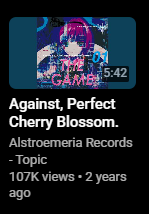
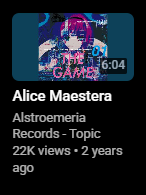
refactor some selectors in content, update demo images

diff --git a/content-texts.js b/content-texts.js
@@ -57,7 +57,9 @@ const textStyleSettings = {
             ${CELLS_VIDEOS_COLLAB} .yt-core-attributed-string__link,
             ${SECTION_OTHERS_VIDEOS} .yt-core-attributed-string__link,
             ${SIDEBAR_VIDEOS} .yt-content-metadata-view-model__metadata-row:nth-of-type(1) .yt-content-metadata-view-model__metadata-text,
-            ${SIDEBAR_PLPANEL_VIDEOS} #byline {
+            ${SIDEBAR_PLPANEL_VIDEOS} #byline,
+            ${PLRCTN_PLAYER_RELATEDVIDEOSCTN_VIDEOS} .ytp-modern-videowall-still-info-author, 
+            ${BIGMODE_PLRCTN_PLAYER_RELATEDVIDEOSCTN_VIDEOS} .ytp-modern-videowall-still-info-author {
                 max-height: unset !important;
                 white-space: normal !important;
                 word-break: break-word !important;
@@ -78,8 +80,6 @@ const textStyleSettings = {
             ${CELLS_VIDEOS_COLLAB} .yt-content-metadata-view-model__metadata-row:nth-of-type(2) .yt-content-metadata-view-model__metadata-text, 
             ${SECTION_OTHERS_VIDEOS} .yt-content-metadata-view-model__metadata-row:nth-of-type(2) .yt-content-metadata-view-model__metadata-text, 
             ${SIDEBAR_VIDEOS} .yt-content-metadata-view-model__metadata-row:nth-of-type(2) .yt-content-metadata-view-model__metadata-text, 
-            ${PLRCTN_PLAYER_RELATEDVIDEOSCTN_VIDEOS} .ytp-modern-videowall-still-info-author, 
-            ${BIGMODE_PLRCTN_PLAYER_RELATEDVIDEOSCTN_VIDEOS} .ytp-modern-videowall-still-info-author, 
             ${PLRCTN_PLAYER_RELATEDVIDEOSCTN_VIDEOS} .ytp-modern-videowall-still-view-count-and-date-info, 
             ${BIGMODE_PLRCTN_PLAYER_RELATEDVIDEOSCTN_VIDEOS} .ytp-modern-videowall-still-view-count-and-date-info {
                 max-height: unset !important;

diff --git a/README.md b/README.md
@@ -157,6 +157,10 @@ Just click this extension icon to open popup menu when you're on [Youtube](https
 
   ![texts-videoChannelNameFull-all_plPanel_disabled](https://github.com/NekoZ410/Youtube_Enhancement_And_Helper/blob/main/images/readme/texts-videoChannelNameFull-all_plPanel_disabled.png?raw=true)
 
+  - Player:
+
+  ![texts-videoChannelNameFull-player_disabled](https://github.com/NekoZ410/Youtube_Enhancement_And_Helper/blob/main/images/readme/texts-videoChannelNameFull-player_disabled.png?raw=true)
+
 - Enabled: Customized to display the entire channel name with automatic spacing and line breaks based on length.
   - Home:
   
@@ -169,6 +173,10 @@ Just click this extension icon to open popup menu when you're on [Youtube](https
   - Playlist panel:
 
   ![texts-videoChannelNameFull-all_plPanel_enabled](https://github.com/NekoZ410/Youtube_Enhancement_And_Helper/blob/main/images/readme/texts-videoChannelNameFull-all_plPanel_enabled.png?raw=true)
+
+  - Player:
+
+  ![texts-videoChannelNameFull-player_enabled](https://github.com/NekoZ410/Youtube_Enhancement_And_Helper/blob/main/images/readme/texts-videoChannelNameFull-player_enabled.png?raw=true)
 
 ### 6. Display full video info
 - Disabled: Default only displays 1 line, overflows or an ellipsis at the end when the info is too long (in some languages).
